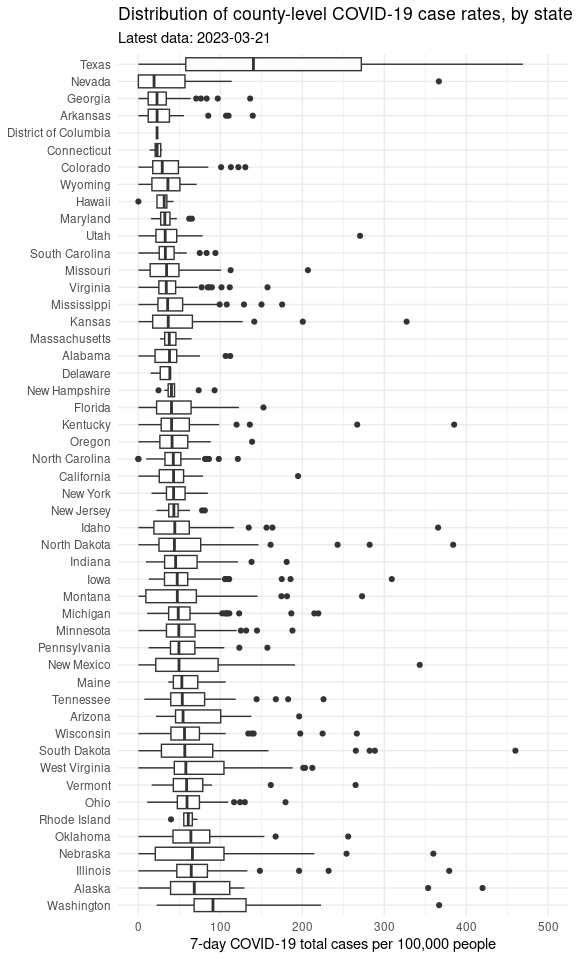
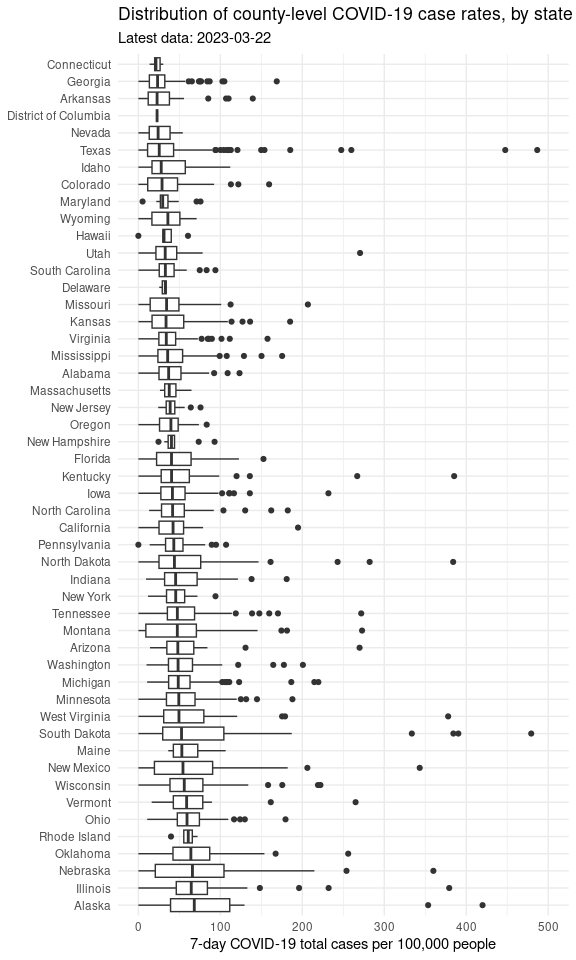
Updated report

diff --git a/README.md b/README.md
@@ -1,7 +1,7 @@
 Minnesota COVID Report
 ================
 
-Report last run: 2023-03-22 22:10:20
+Report last run: 2023-03-23 22:10:09
 
 ## Introduction
 
@@ -106,25 +106,25 @@ rate_data %>%
   knitr::kable()
 ```
 
-| county       | state |     pop | covid_rate |
-|:-------------|:------|--------:|-----------:|
-| Delta        | Texas |    5331 |     147102 |
-| Frio         | Texas |   20306 |       6259 |
-| Denton       | Texas |  887207 |       4848 |
-| Loving       | Texas |     169 |       4142 |
-| Jones        | Texas |   20083 |       3934 |
-| Hudspeth     | Texas |    4886 |       3909 |
-| Crockett     | Texas |    3464 |       3695 |
-| Jasper       | Texas |   35529 |       3090 |
-| San Patricio | Texas |   66730 |       3069 |
-| Walker       | Texas |   72971 |       2894 |
-| Schleicher   | Texas |    2793 |       2542 |
-| Goliad       | Texas |    7658 |       2468 |
-| Crane        | Texas |    4797 |       2376 |
-| Comal        | Texas |  156209 |       2144 |
-| Deaf Smith   | Texas |   18546 |       2092 |
-| Victoria     | Texas |   92084 |       2045 |
-| Maverick     | Texas |   58722 |       2020 |
-| Childress    | Texas |    7306 |       1848 |
-| Terrell      | Texas |     776 |       1804 |
-| Travis       | Texas | 1273954 |       1789 |
+| county                   | state         |   pop | covid_rate |
+|:-------------------------|:--------------|------:|-----------:|
+| Hansford                 | Texas         |  5399 |        704 |
+| Pecos                    | Texas         | 15823 |        487 |
+| Douglas                  | South Dakota  |  2921 |        479 |
+| Yoakum                   | Texas         |  8713 |        448 |
+| Northwest Arctic Borough | Alaska        |  7621 |        420 |
+| Dewey                    | South Dakota  |  5892 |        390 |
+| Menifee                  | Kentucky      |  6489 |        385 |
+| Hyde                     | South Dakota  |  1301 |        384 |
+| Barnes                   | North Dakota  | 10415 |        384 |
+| Clay                     | Illinois      | 13184 |        379 |
+| Wirt                     | West Virginia |  5821 |        378 |
+| Thurston                 | Nebraska      |  7224 |        360 |
+| Bethel Census Area       | Alaska        | 18386 |        354 |
+| De Baca                  | New Mexico    |  1748 |        343 |
+| Charles Mix              | South Dakota  |  9292 |        334 |
+| Rolette                  | North Dakota  | 14176 |        282 |
+| Mineral                  | Montana       |  4397 |        273 |
+| Scott                    | Tennessee     | 22068 |        272 |
+| Piute                    | Utah          |  1479 |        270 |
+| Apache                   | Arizona       | 71887 |        270 |
